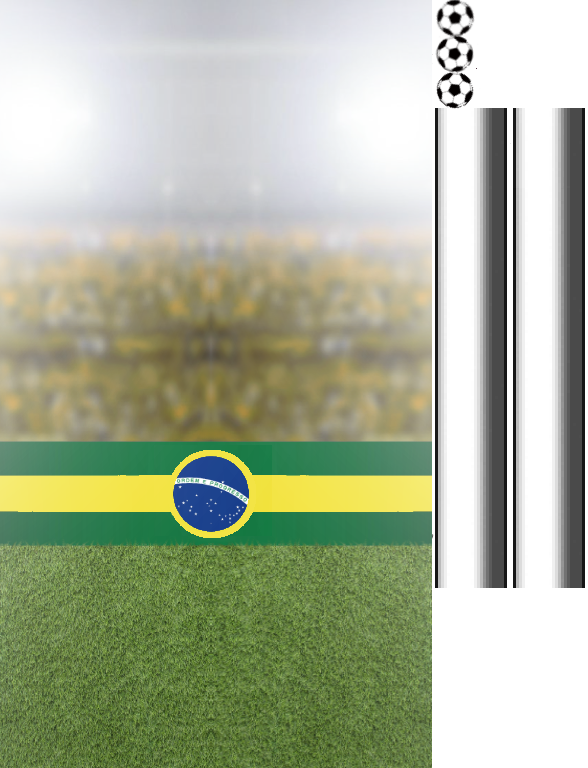
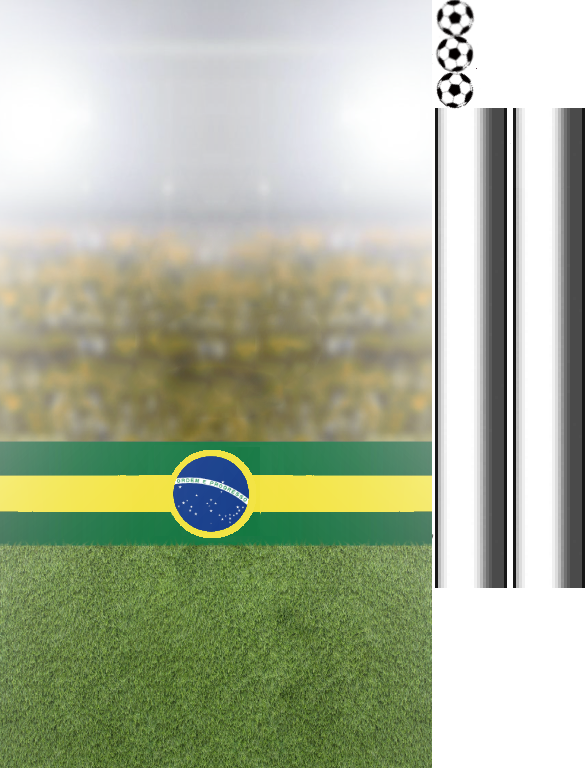
feat: arrumado o fundo

Changed region(s): [[0.1837, 0.6875, 0.7041, 1.0], [0.2755, 0.3125, 0.4592, 0.5625], [0.2755, 0.5, 0.3367, 0.5625]]

diff --git a/dist/style.css b/dist/style.css
@@ -1,33 +1,66 @@
 @import url('https://fonts.googleapis.com/css2?family=Press+Start+2P&display=swap');
 
 body {
-  margin: 0 auto;
+  padding: 10px;
   text-align: center;
   font-family: 'Press Start 2P', cursive;
   user-select: none;
-}
-div{
-  background: url("/img/flappy-ball-set.png") 0% 239px;
-  border: none;
-  padding: 0px;
-  margin: 0px;
+  background: url(/img/background.png);
+  background-size: 40%;
 }
 header {
   margin: 0 auto;
-  width: 431px;
+  height: 110px;
+  width: 432px;
 }
 h1 {
-  background: url("/img/flappy-ball-set.png") 0% 309px;
-  padding: 1.2rem 0;
-  margin: 0;
+  left: -1.5px;
+  font-size: 20pt;
+  padding: 20px 0px;
+  position: relative;
+  margin-top: -17px;
+  border: solid black 3px;
+  width: 432px;
+  border-start-start-radius: 20px;
+  border-start-end-radius: 20px;
+  background-color: cornsilk;
+  background-image: linear-gradient( to right, rgb(255, 255, 255),  rgb(190, 190, 190), rgb(255, 255, 255));
 }
-.score-container {
-  display: flex;
-  padding: 3px;
-  justify-content: space-between;
-  padding: 8px 6px;
-  background: url("/img/flappy-ball-set.png") 0% 220px;
+canvas{
+  margin-top: -43px;
+  margin-left: 23px;
+  margin-bottom: 0px;
+  border: solid black 3px;
+  box-shadow: rgba(0, 0, 0, 0.534) 5px 5px 5px;
+  border-end-start-radius: 20px;
+  border-end-end-radius: 20px;
 }
-tela{
-  margin: auto;
+div#opcoes{
+  float: right;
+  background-color: rgba(0, 0, 0, 0.75);
+  width: 200px;
+  padding: 20px;
+  border: solid black 3px;
+  border-radius: 15px;
+  color: white;
+}
+button{
+  color: white;
+  background-color: rgba(0, 0, 0, 0.39);
+  border-radius: 10px;
+  border: solid rgba(255, 255, 255, 0.342) 2px;
+  width: 95px;
+  height: 30px;
+  margin: 5px 0px;
+}
+
+div#placar{
+  bottom: 500px;
+  width: 180px;
+  background-color: rgba(0, 0, 0, 0.75);
+  padding: 20px;
+  border: solid black 3px;
+  border-radius: 15px;
+  float: left;
+  color: white;
 }
